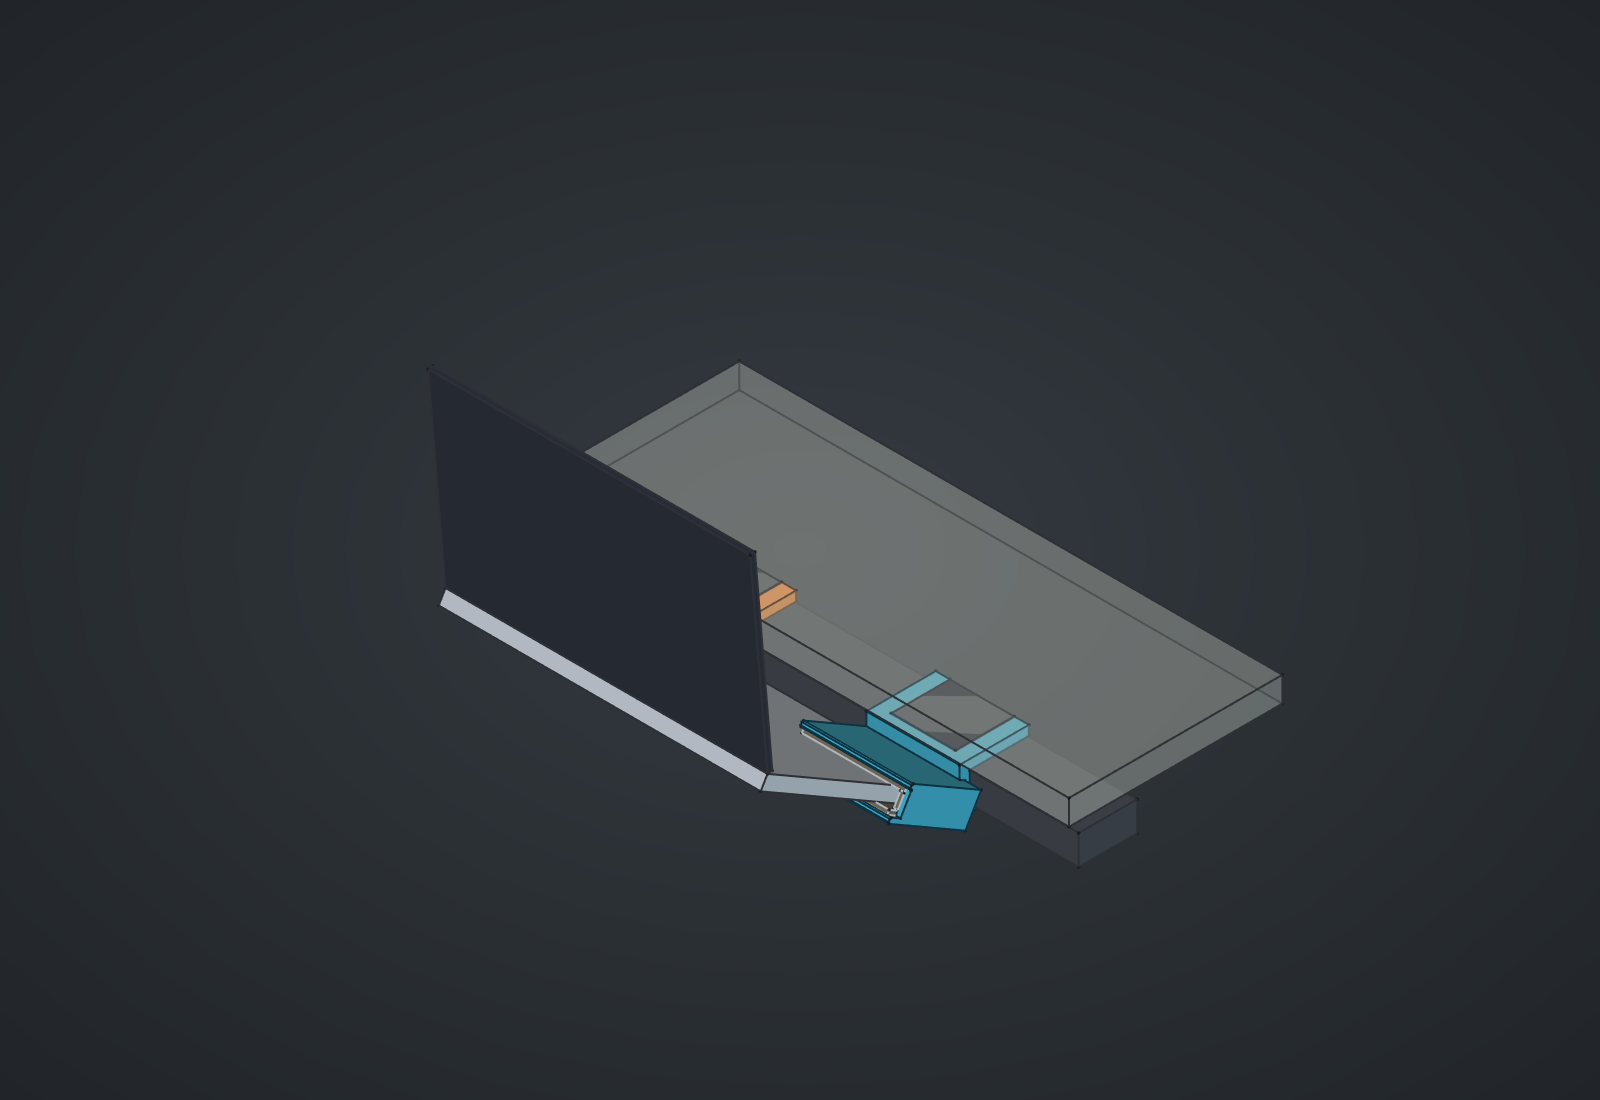
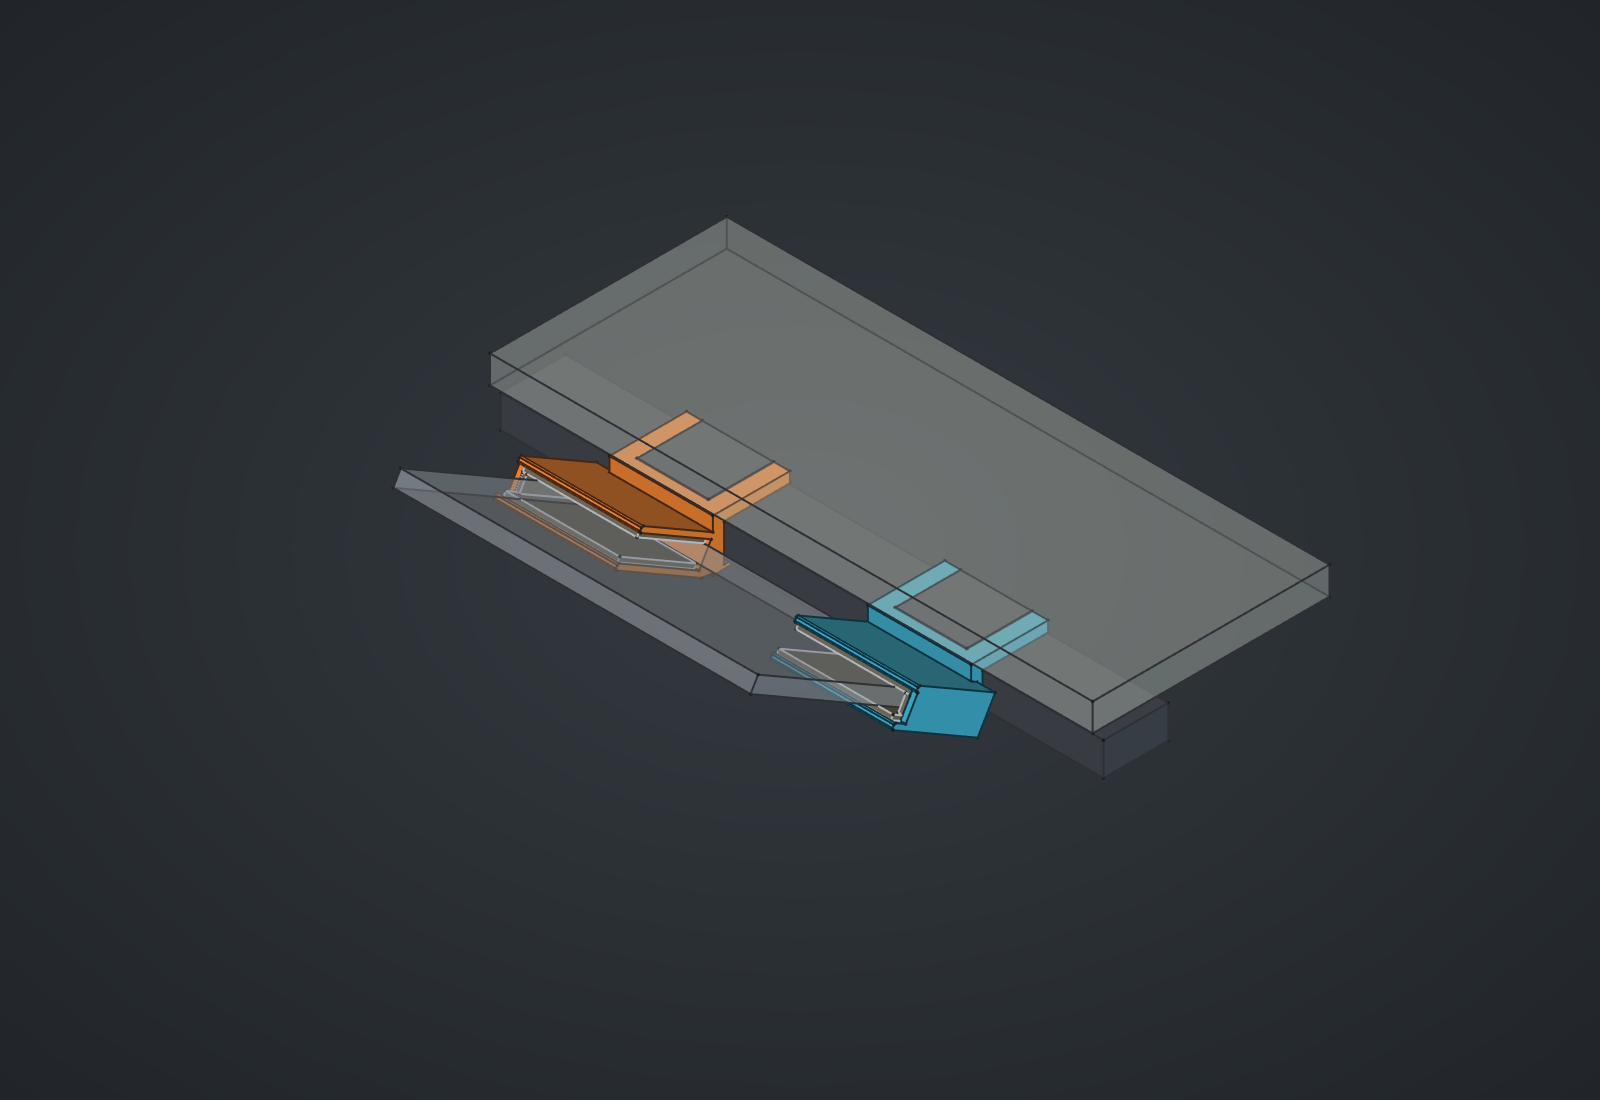
Scripted auto-commit on change (2026-11-12 20:28:27) by gitwatch.sh

Changed region(s): [[0.25, 0.1855, 0.8438, 0.7727], [0.2812, 0.5255, 0.4062, 0.6491], [0.4062, 0.6491, 0.4375, 0.68]]

diff --git a/Domestic/LaptopDeskMount/build_holders.py b/Domestic/LaptopDeskMount/build_holders.py
@@ -305,8 +305,8 @@ report["clamp_under_bolts_mm"] = v("ClampShelf")
 report["top_to_tabletop_clearance_mm"] = v("SpacerHeight")-v("BeamClearance")-v("ClampTop")
 report["side_clearance_after_felt_mm_per_side"] = v("SideSlack")
 (ROOT / "validation.json").write_text(json.dumps(report,ensure_ascii=False,indent=2)+"\n")
-Gui.activeDocument().activeView().viewAxonometric()
-Gui.activeDocument().activeView().fitAll()
+view_macro = ROOT / "view_detail.FCMacro"
+exec(compile(view_macro.read_text(),str(view_macro),"exec"),{"__file__":str(view_macro)})
 doc.recompute()
 doc.save()
 Gui.activeDocument().activeView().saveImage(str(ROOT / "previews" / "assembly.png"),1600,1100,"Current")

diff --git a/Domestic/LaptopDeskMount/capture_previews.py b/Domestic/LaptopDeskMount/capture_previews.py
@@ -15,6 +15,9 @@ def capture(name):
     QtCore.QTimer.singleShot(600,loop.quit)
     loop.exec()
     v.fitAll()
+    if name == "side.png":
+        camera = v.getCameraNode()
+        camera.height = camera.height.getValue() / 1.65
     Gui.updateGui()
     v.saveImage(str(root / "previews" / name),1600,1100,"Current")
 
